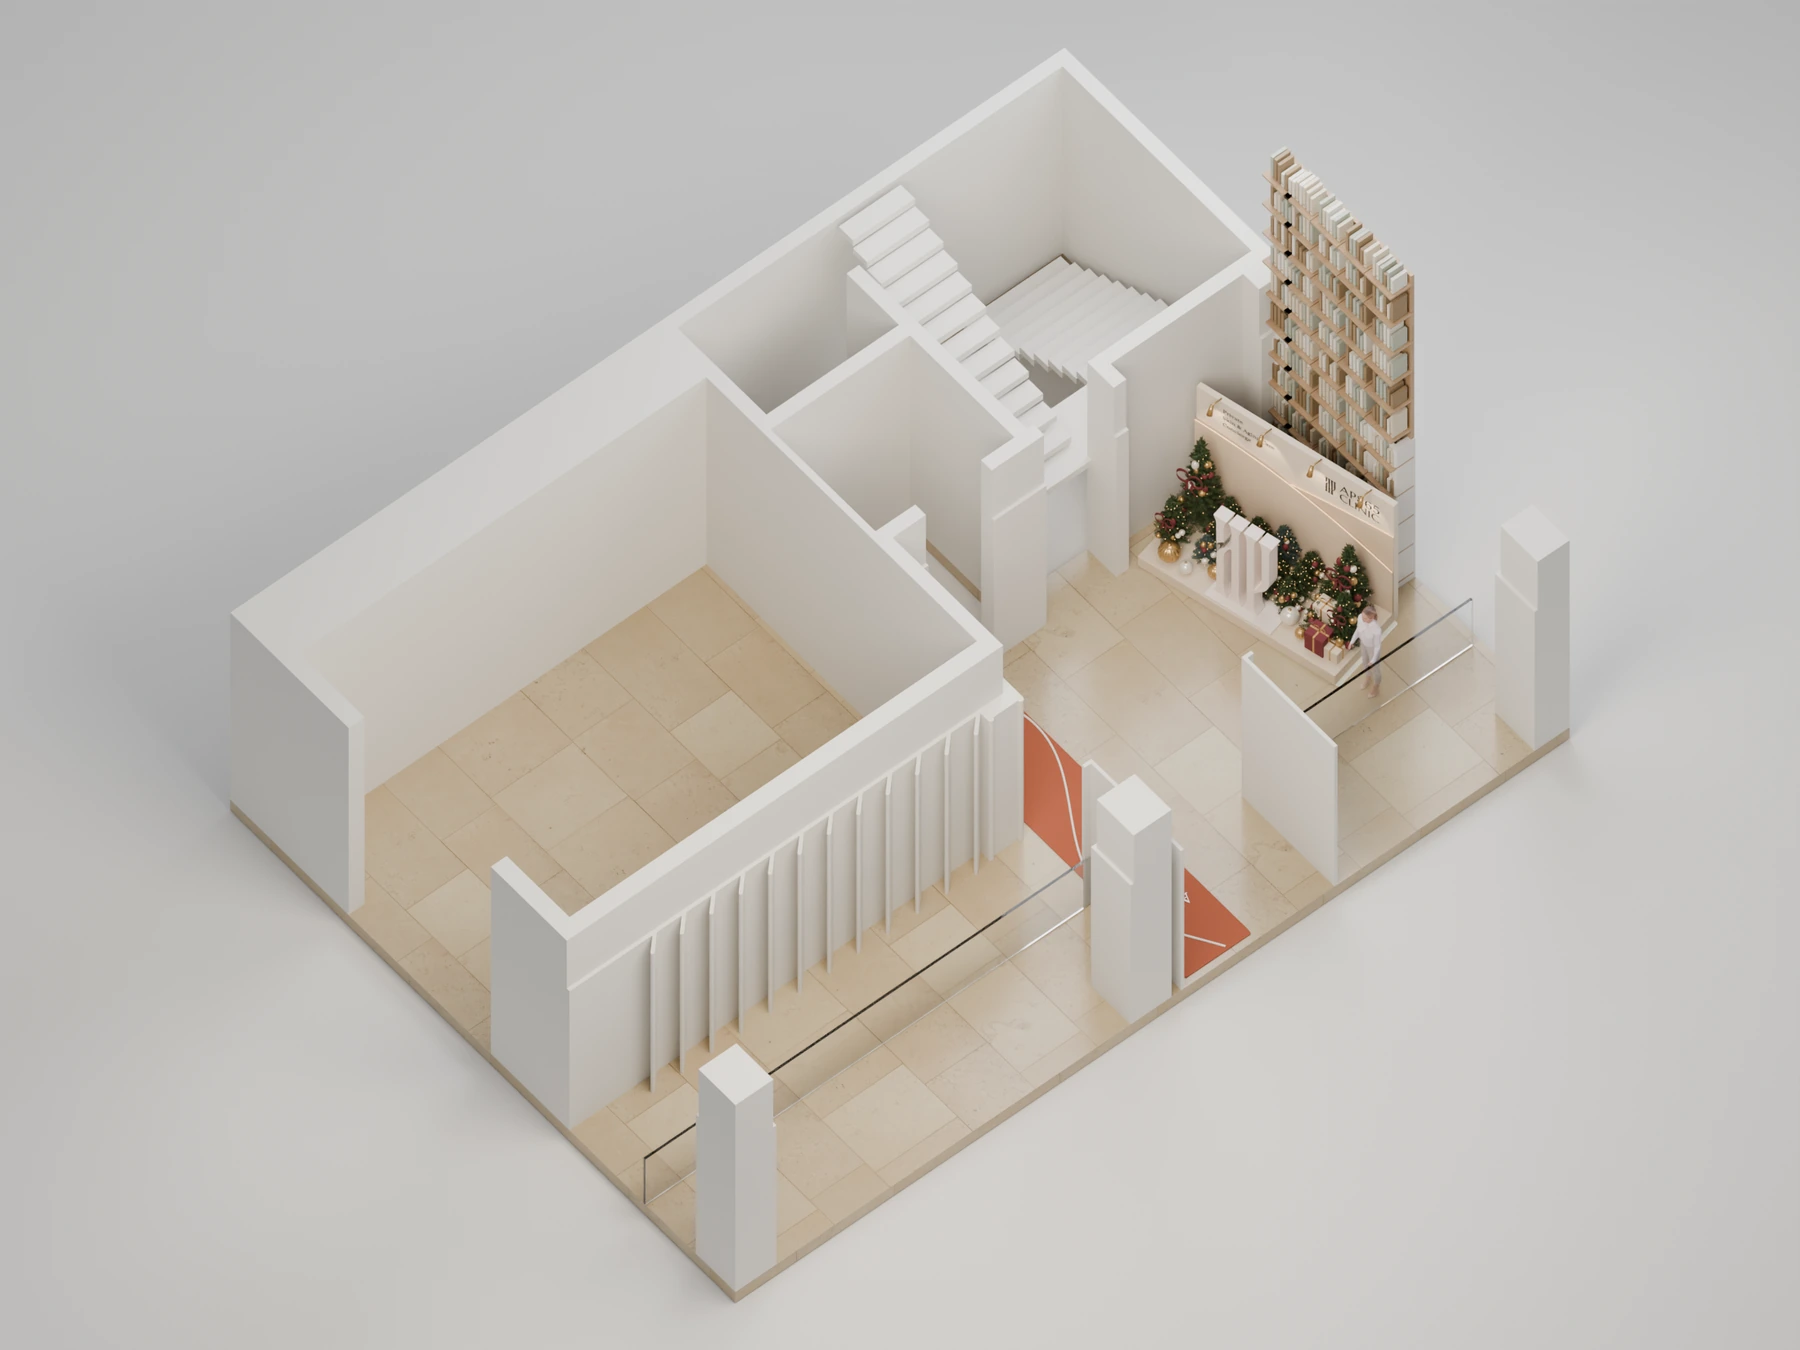
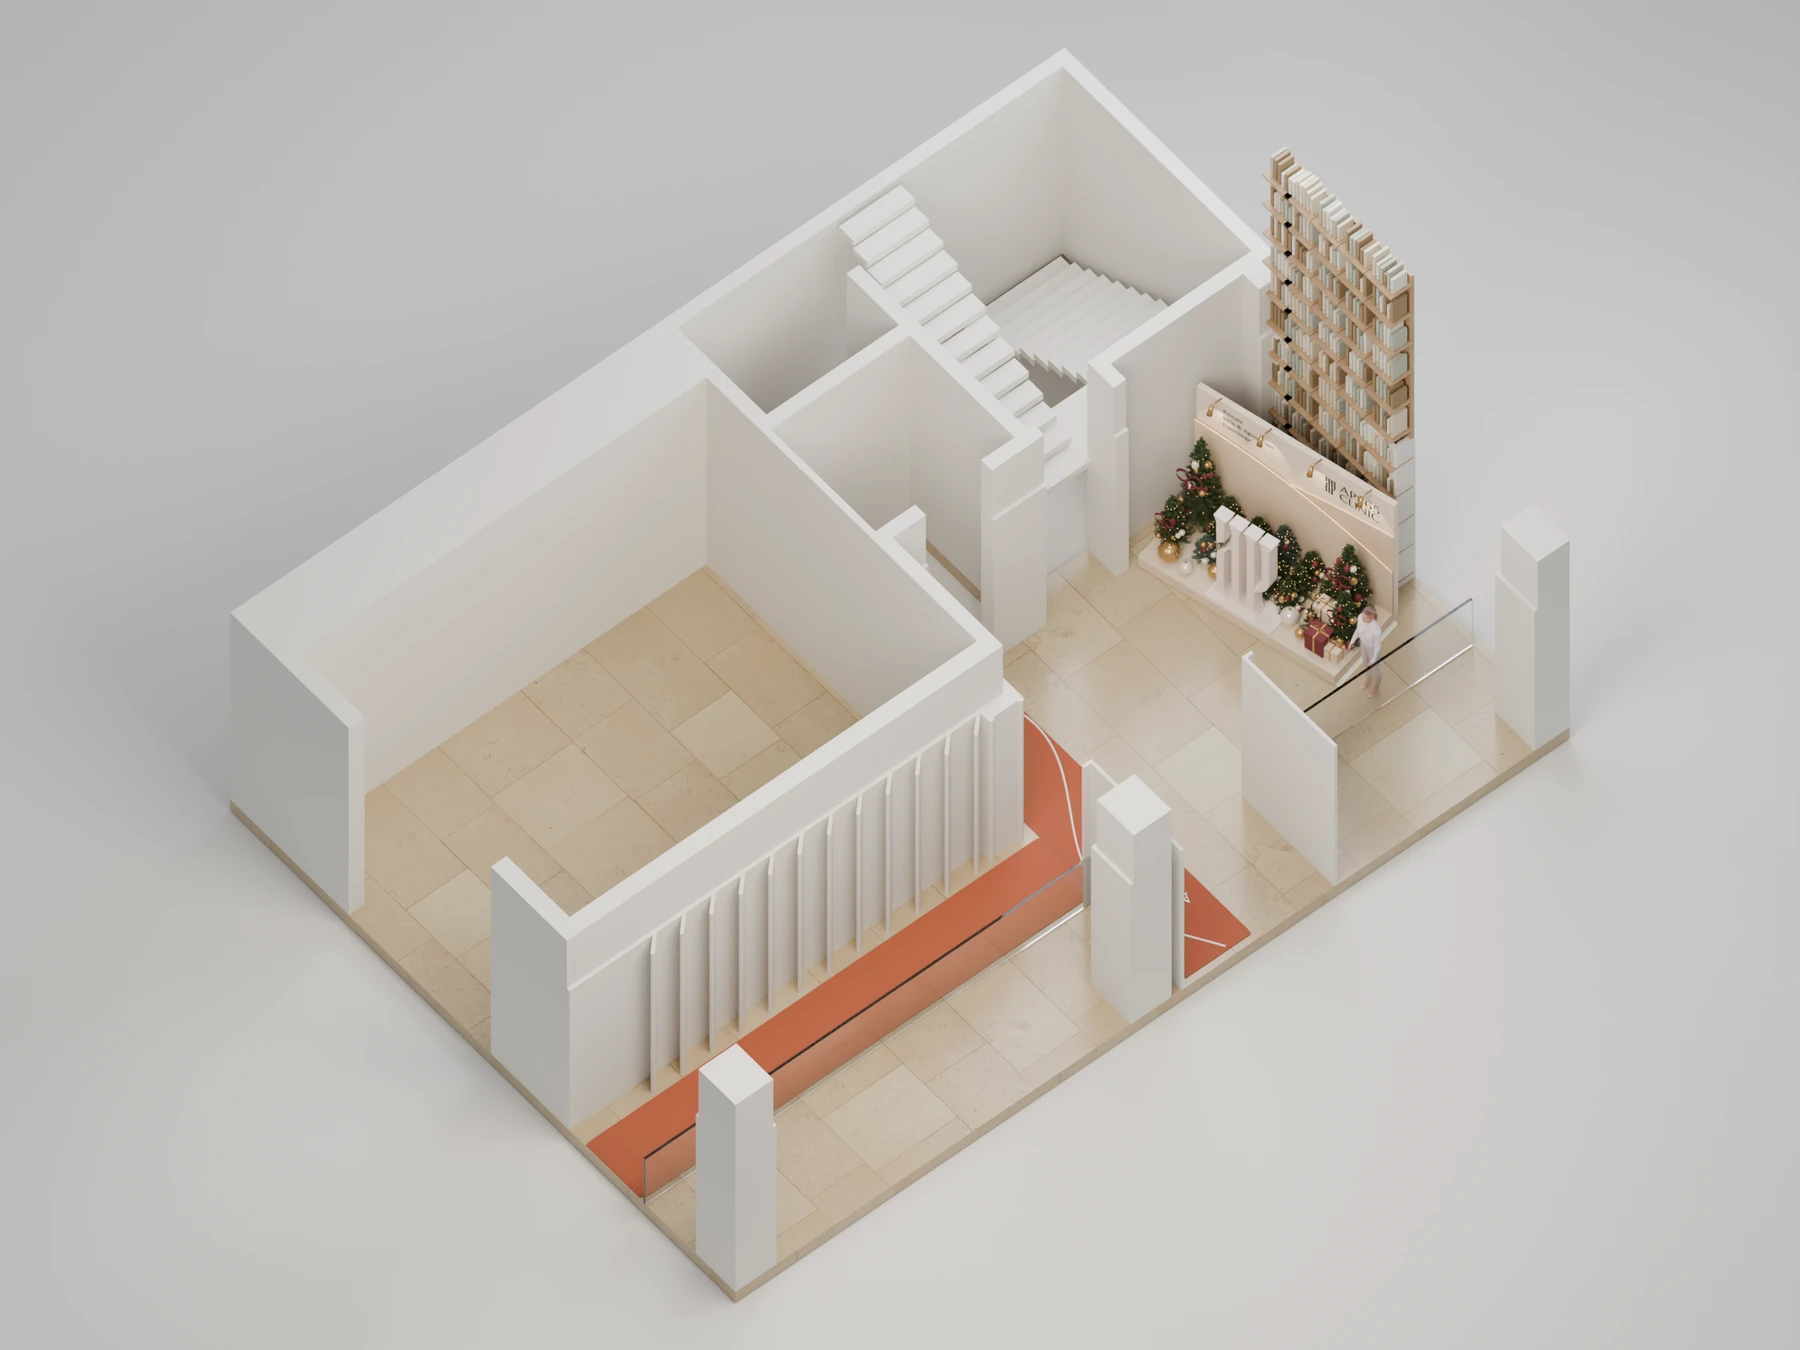
Render the first floor with the live side-door red carpet

Changed region(s): [[0.3111, 0.6222, 0.6222, 0.9022]]

diff --git a/public/ceremony/index.html b/public/ceremony/index.html
@@ -2,7 +2,7 @@
 <html lang="ko"><head>
 <meta charset="utf-8"><meta name="viewport" content="width=device-width, initial-scale=1"><meta name="theme-color" content="#f7f5f1">
 <meta name="robots" content="noindex,nofollow"><meta name="description" content="AP865 오프닝 세레모니의 공간별 타임라인, 배치도, 층별 담당자.">
-<title>오프닝 세레모니 · AP865 현장 운영</title><link rel="stylesheet" href="style.css?v=floor-mockups"></head>
+<title>오프닝 세레모니 · AP865 현장 운영</title><link rel="stylesheet" href="style.css?v=1126-live-carpet"></head>
 <body><a class="skip" href="#detail">행사 세부 일정으로 이동</a>
 <header class="wrap ceremony-header" id="top" aria-labelledby="guideTitle">
 <div class="pagehead"><h1 id="guideTitle">오프닝 세레모니</h1><p class="date"><time datetime="2026-12-01">2026.12.01 화</time> · 15:00–18:00</p></div>
@@ -12,4 +12,4 @@
 <main class="wrap">
 <div id="detail" tabindex="-1"></div><datalist id="personOptions"></datalist></main>
 <footer class="wrap"><span>AP865 CLINIC</span><div class="footer-tools"><button type="button" data-export>배치표 CSV</button><a href="https://invite.ap865.com/" target="_blank" rel="noopener">공식 초대장</a></div></footer>
-<script src="program.js?v=lucky-draw-prizes"></script><script src="spaces.js?v=gift-1f"></script><script src="layout.js?v=photowall-sh2052a"></script><script src="furniture.js?v=blender-floors-1125"></script><script src="map-edit.js?v=continuous-1125"></script><script src="care.js"></script><script src="people.js?v=continuous-1125"></script><script src="memo.js?v=shared-layout-1"></script><script src="app.js?v=photowall-sh2052a"></script><script src="shared.js?v=shared-layout-1"></script></body></html>
+<script src="program.js?v=lucky-draw-prizes"></script><script src="spaces.js?v=gift-1f"></script><script src="layout.js?v=1126-live-carpet"></script><script src="furniture.js?v=blender-floors-1125"></script><script src="map-edit.js?v=continuous-1125"></script><script src="care.js"></script><script src="people.js?v=continuous-1125"></script><script src="memo.js?v=shared-layout-1"></script><script src="app.js?v=1126-live-carpet"></script><script src="shared.js?v=shared-layout-1"></script></body></html>

diff --git a/public/ceremony/layout.js b/public/ceremony/layout.js
@@ -52,7 +52,7 @@ function mapFile(floor){
   return floor===1||floor===8?'blender-plan-'+floor+'.webp':'plan-'+floor+'f.webp';
 }
 function mapCaption(floor){
-  if(floor===1)return '심볼 포토월 · 크리스마스트리 · 옆문까지 레드카펫 연장 예정';
+  if(floor===1)return '심볼 포토월 · 크리스마스트리 · 입구에서 옆문까지 레드카펫';
   if(floor===8)return '스탠드테이블 '+tableCenters.length+'개 · 고정 바테이블 · 무대 '+stagePlaces.length+'곳';
   return '층별 공사 평면도';
 }
@@ -63,9 +63,9 @@ function mapPin(entry,guest){
 }
 function mapCanvas(id,floor,layer){
   const guest=layer==='guests'&&guestLayer(id,floor);
-  const carpet=floor===1?'<span class="side-carpet" role="img" aria-label="입구에서 옆문까지 레드카펫 연장 예정">옆문</span>':'';
+  const sideDoor=floor===1?'<span class="side-door-label">옆문</span>':'';
   const furniture=floor===8?loungeFurniture():'';
-  return '<div class="map-scroll"><div class="map-surface" data-map-surface="'+floor+'" tabindex="-1" aria-label="'+floor+'층 행사 배치도"><img class="map-art" src="'+fileURL(mapFile(floor))+'" alt="'+floor+'층 행사 배치도">'+carpet+furniture+'<div class="pins">'+mapEntries(id,floor,layer).map(p=>mapPin(p,guest)).join('')+'</div></div></div>';
+  return '<div class="map-scroll"><div class="map-surface" data-map-surface="'+floor+'" tabindex="-1" aria-label="'+floor+'층 행사 배치도"><img class="map-art" src="'+fileURL(mapFile(floor))+'" alt="'+floor+'층 행사 배치도">'+sideDoor+furniture+'<div class="pins">'+mapEntries(id,floor,layer).map(p=>mapPin(p,guest)).join('')+'</div></div></div>';
 }
 const arrivalMockups={
   1:{file:'arrival-1f-photowall.webp',label:'1층 포토월 시안',alt:'피치 베이지색 160cm AP865 심볼 뒤에 미니 트리와 오너먼트를 채운 최종 포토월 시안',width:1421,height:1107},

diff --git a/public/ceremony/style.css b/public/ceremony/style.css
@@ -13,7 +13,7 @@ dialog{width:min(475px,94vw);max-height:87dvh;background:var(--card);color:var(-
 .map-art{display:block;width:100%;height:auto}
 .map-surface{position:relative;isolation:isolate}
 /* 1F side entrance and lobby junction in the 806 × 588 plan coordinate system. */
-.side-carpet{position:absolute;box-sizing:border-box;left:1.26%;top:69.02%;width:55.57%;height:7.94%;padding-left:.4%;display:flex;align-items:center;background:rgba(161,64,38,.86);border-block:1px dashed #ead3c5;color:#fff7ed;font-size:clamp(8px,.7vw,12px);font-weight:650;line-height:1;pointer-events:none}
+.side-door-label{position:absolute;left:1.6%;top:75.1%;transform:translateY(-50%);color:white;text-shadow:0 1px 3px #352017;font-size:clamp(8px,.7vw,12px);font-weight:650;line-height:1;pointer-events:none}
 .map-surface:focus{outline-offset:-3px}
 .map-tools{display:flex;align-items:center;gap:9px;flex-wrap:wrap;margin-top:8px}
 .layer-pick{display:inline-flex;padding:2px;border:1px solid var(--line);border-radius:5px;background:#f6f1e9}

diff --git a/public/ceremony/app.js b/public/ceremony/app.js
@@ -3,7 +3,7 @@ const $ = id => document.getElementById(id);
 const esc = value => String(value ?? '').replace(/[&<>"']/g,c=>({'&':'&amp;','<':'&lt;','>':'&gt;','"':'&quot;',"'":'&#39;'}[c]));
 const floorMediaVersions={
   'arrival-1f-photowall.webp':'sh2052a-final',
-  'render-model-1.webp':'1125-photowall', 'blender-plan-1.webp':'1125-photowall',
+  'render-model-1.webp':'1126-live-carpet', 'blender-plan-1.webp':'1126-live-carpet',
   'render-model-8.webp':'1125-stage', 'blender-plan-8.webp':'1125-stage'
 };
 function fileURL(name){
